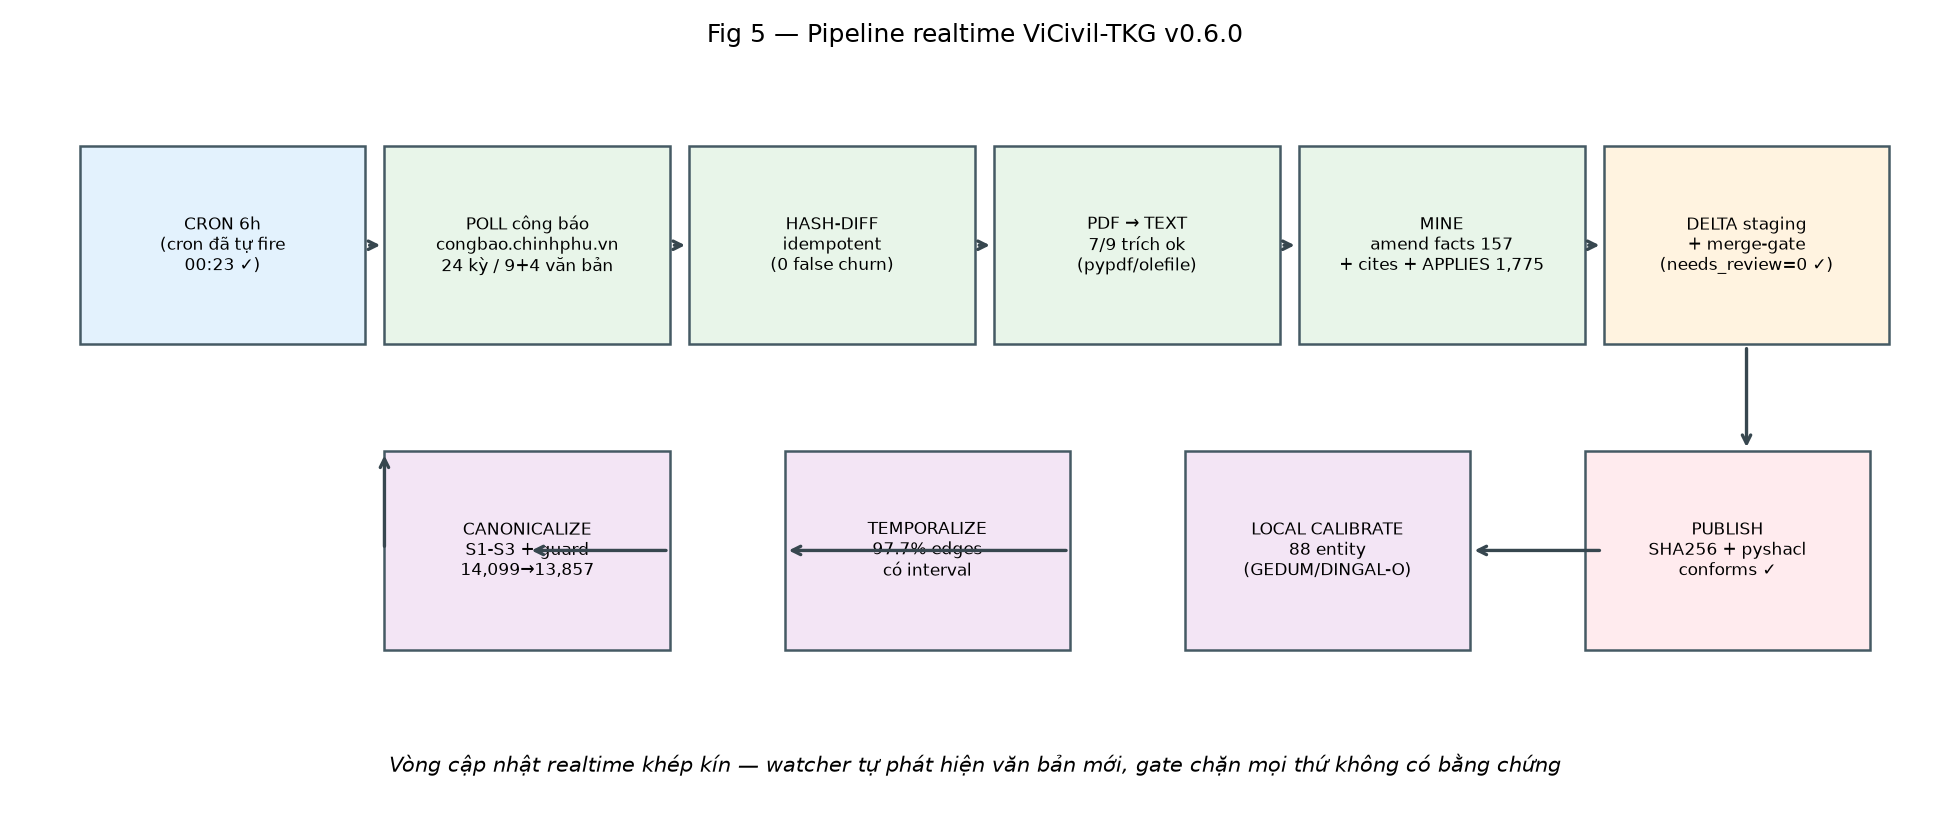
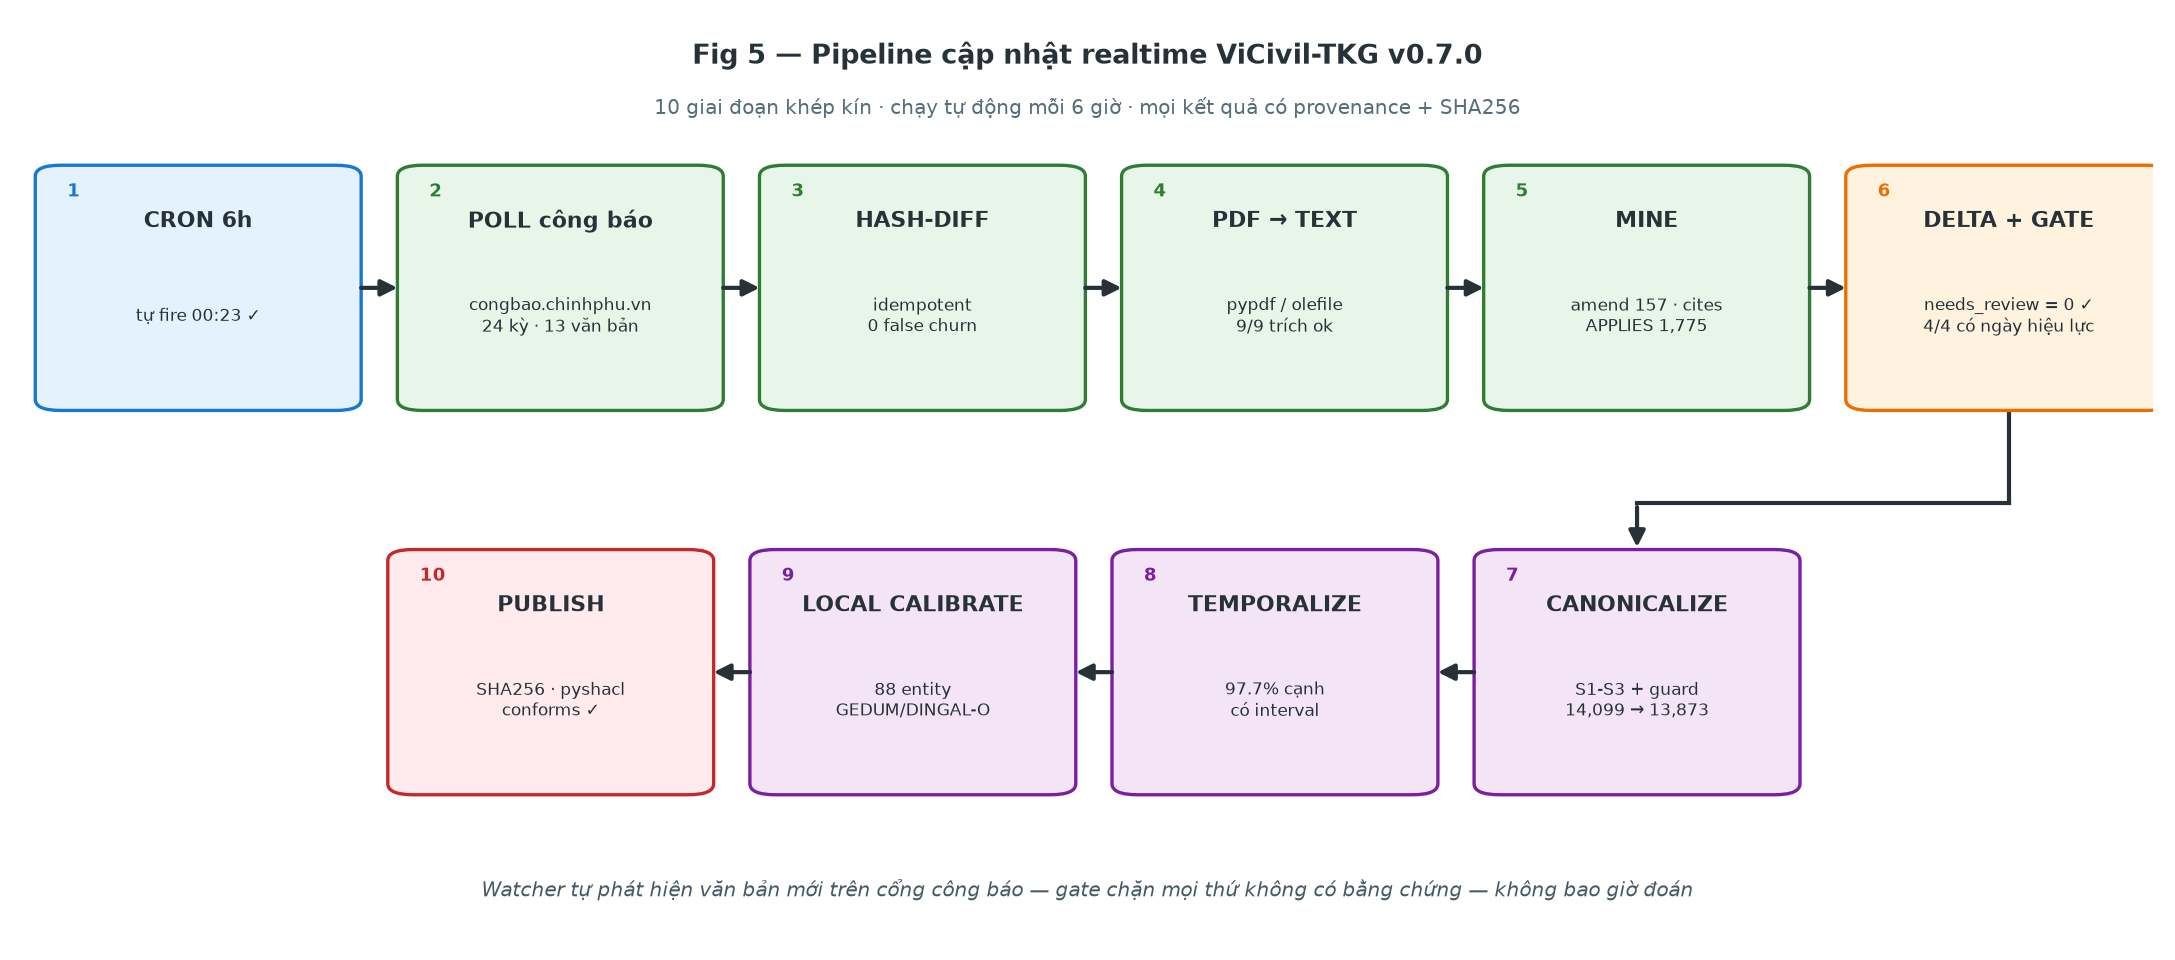
fig5 v2: serpentine layout, arrows only in gaps (no text collision), rounded boxes, 10 numbered stages

diff --git a/vtg/make_fig5_v2.py b/vtg/make_fig5_v2.py
@@ -1,0 +1,81 @@
+"""make_fig5_v2: polished realtime pipeline diagram — serpentine layout, arrows ONLY in
+gaps between boxes (no text collisions), rounded boxes, numbered stages."""
+import os
+import matplotlib
+matplotlib.use("Agg")
+import matplotlib.pyplot as plt
+from matplotlib.patches import FancyBboxPatch
+
+OUT = "/home/devlab1/vicivil_tkg/figures"
+os.makedirs(OUT, exist_ok=True)
+
+BLUE, GREEN, ORANGE, PURPLE, RED, INK = "#1976d2", "#2e7d32", "#ef6c00", "#7b1fa2", "#c62828", "#263238"
+
+ROW1 = [
+    ("1", "CRON 6h", "tự fire 00:23 ✓", "#e3f2fd", BLUE),
+    ("2", "POLL công báo", "congbao.chinhphu.vn\n24 kỳ · 13 văn bản", "#e8f5e9", GREEN),
+    ("3", "HASH-DIFF", "idempotent\n0 false churn", "#e8f5e9", GREEN),
+    ("4", "PDF → TEXT", "pypdf / olefile\n9/9 trích ok", "#e8f5e9", GREEN),
+    ("5", "MINE", "amend 157 · cites\nAPPLIES 1,775", "#e8f5e9", GREEN),
+    ("6", "DELTA + GATE", "needs_review = 0 ✓\n4/4 có ngày hiệu lực", "#fff3e0", ORANGE),
+]
+ROW2 = [  # flow: phải → trái
+    ("7", "CANONICALIZE", "S1-S3 + guard\n14,099 → 13,873", "#f3e5f5", PURPLE),
+    ("8", "TEMPORALIZE", "97.7% cạnh\ncó interval", "#f3e5f5", PURPLE),
+    ("9", "LOCAL CALIBRATE", "88 entity\nGEDUM/DINGAL-O", "#f3e5f5", PURPLE),
+    ("10", "PUBLISH", "SHA256 · pyshacl\nconforms ✓", "#ffebee", RED),
+]
+
+W, H, GAP, X0 = 0.145, 0.26, 0.025, 0.010
+Y1, Y2 = 0.58, 0.16          # đáy hàng 1 / hàng 2
+C1, C2 = Y1 + H / 2, Y2 + H / 2
+
+fig, ax = plt.subplots(figsize=(14.5, 6.4))
+ax.set_xlim(0, 1); ax.set_ylim(0, 1); ax.axis("off")
+
+pos1, pos2 = [], []
+for i, (num, title, sub, face, ec) in enumerate(ROW1):
+    x = X0 + i * (W + GAP)
+    pos1.append((x, x + W))
+    ax.add_patch(FancyBboxPatch((x, Y1), W, H, boxstyle="round,pad=0.004,rounding_size=0.012",
+                                fc=face, ec=ec, lw=1.6, zorder=2))
+    ax.text(x + W / 2, Y1 + H * 0.78, title, ha="center", va="center",
+            fontsize=10.5, fontweight="bold", color=INK, zorder=3)
+    ax.text(x + W / 2, Y1 + H * 0.38, sub, ha="center", va="center", fontsize=8.2, color=INK, zorder=3)
+    ax.text(x + 0.011, Y1 + H - 0.030, num, fontsize=8.5, fontweight="bold", color=ec, zorder=3)
+for i, (num, title, sub, face, ec) in enumerate(ROW2):
+    x = 0.1755 + (3 - i) * (W + GAP)
+    pos2.append((x, x + W))
+    ax.add_patch(FancyBboxPatch((x, Y2), W, H, boxstyle="round,pad=0.004,rounding_size=0.012",
+                                fc=face, ec=ec, lw=1.6, zorder=2))
+    ax.text(x + W / 2, Y2 + H * 0.78, title, ha="center", va="center",
+            fontsize=10.5, fontweight="bold", color=INK, zorder=3)
+    ax.text(x + W / 2, Y2 + H * 0.38, sub, ha="center", va="center", fontsize=8.2, color=INK, zorder=3)
+    ax.text(x + 0.011, Y2 + H - 0.030, num, fontsize=8.5, fontweight="bold", color=ec, zorder=3)
+
+ARROW = dict(arrowstyle="-|>", color=INK, lw=2.0, mutation_scale=16)
+# hàng 1: mũi tên CHỈ trong khe giữa các hộp
+for i in range(5):
+    ax.annotate("", xy=(pos1[i + 1][0] - 0.002, C1), xytext=(pos1[i][1] + 0.002, C1),
+                arrowprops=ARROW, zorder=4)
+# rẽ xuống: DELTA (cuối hàng 1) → elbow → CANONICALIZE (đầu hàng 2)
+xd1 = (pos1[5][0] + pos1[5][1]) / 2
+xc2 = (pos2[0][0] + pos2[0][1]) / 2
+ax.plot([xd1, xd1], [Y1, 0.475], color=INK, lw=2.0, zorder=1)
+ax.plot([xd1, xc2], [0.475, 0.475], color=INK, lw=2.0, zorder=1)
+ax.annotate("", xy=(xc2, Y2 + H + 0.002), xytext=(xc2, 0.475), arrowprops=ARROW, zorder=4)
+# hàng 2: chảy phải → trái
+for i in range(3):
+    ax.annotate("", xy=(pos2[i + 1][1] + 0.002, C2), xytext=(pos2[i][0] - 0.002, C2),
+                arrowprops=ARROW, zorder=4)
+
+ax.text(0.5, 0.955, "Fig 5 — Pipeline cập nhật realtime ViCivil-TKG v0.7.0",
+        ha="center", fontsize=13, fontweight="bold", color=INK)
+ax.text(0.5, 0.90, "10 giai đoạn khép kín · chạy tự động mỗi 6 giờ · mọi kết quả có provenance + SHA256",
+        ha="center", fontsize=9.5, color="#546e7a")
+ax.text(0.5, 0.045, "Watcher tự phát hiện văn bản mới trên cổng công báo — gate chặn mọi thứ không có bằng chứng — không bao giờ đoán",
+        ha="center", fontsize=9.5, style="italic", color="#455a64")
+plt.tight_layout()
+plt.savefig(f"{OUT}/fig5_realtime_pipeline.png", dpi=150)
+plt.close()
+print("fig5 v2 written")
